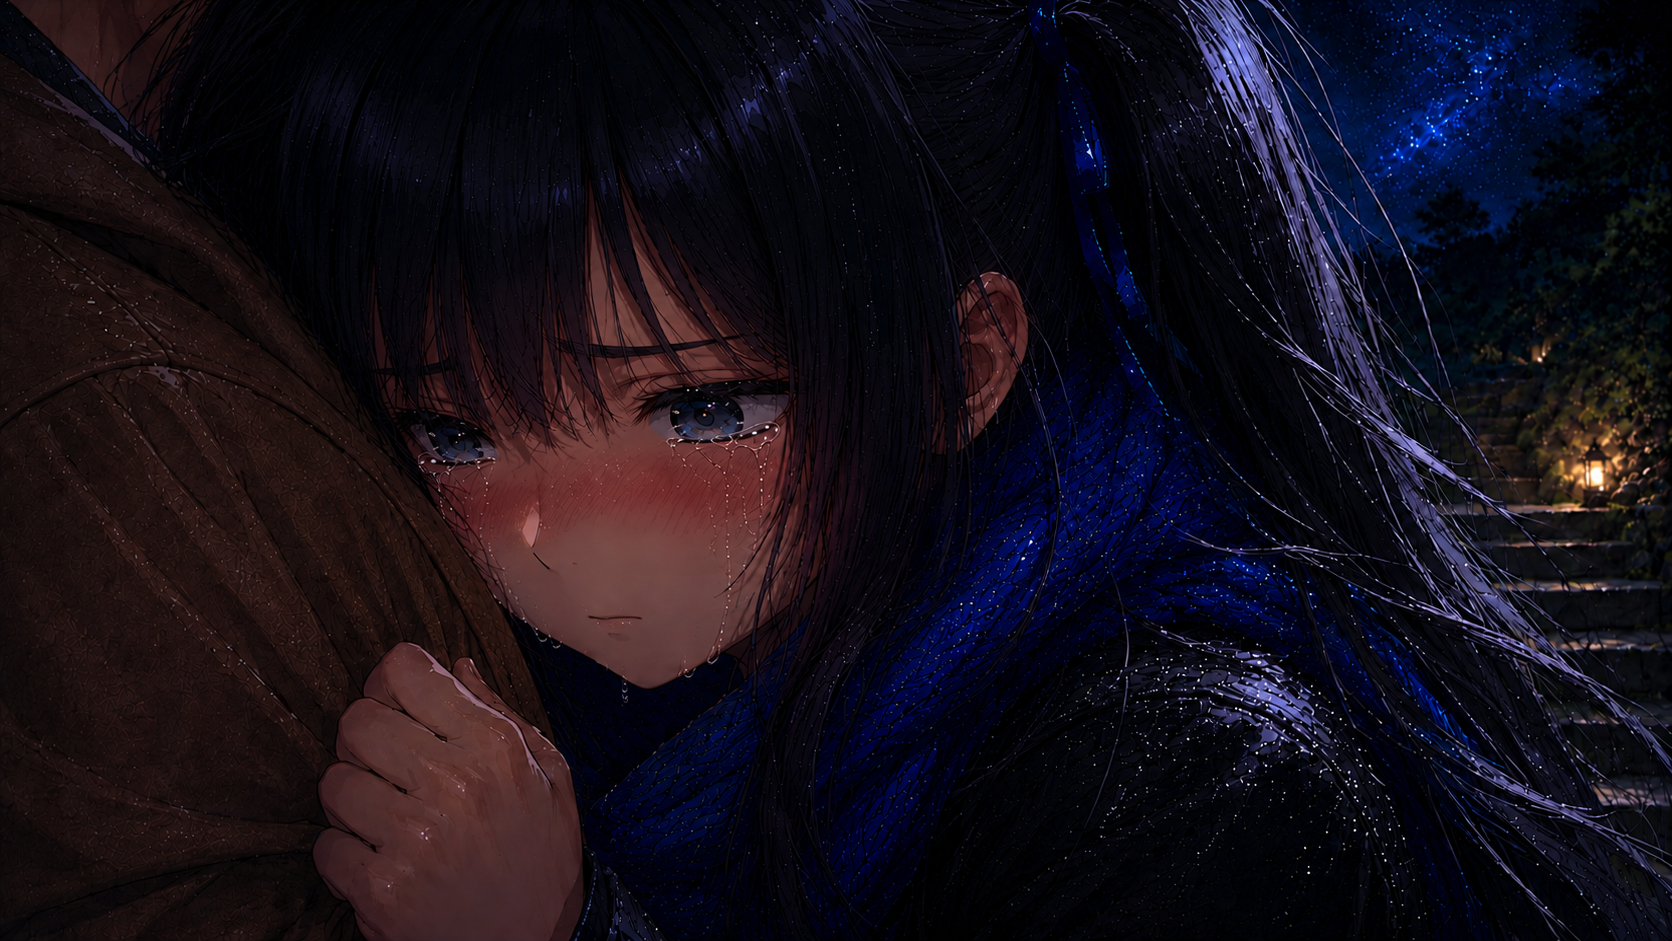
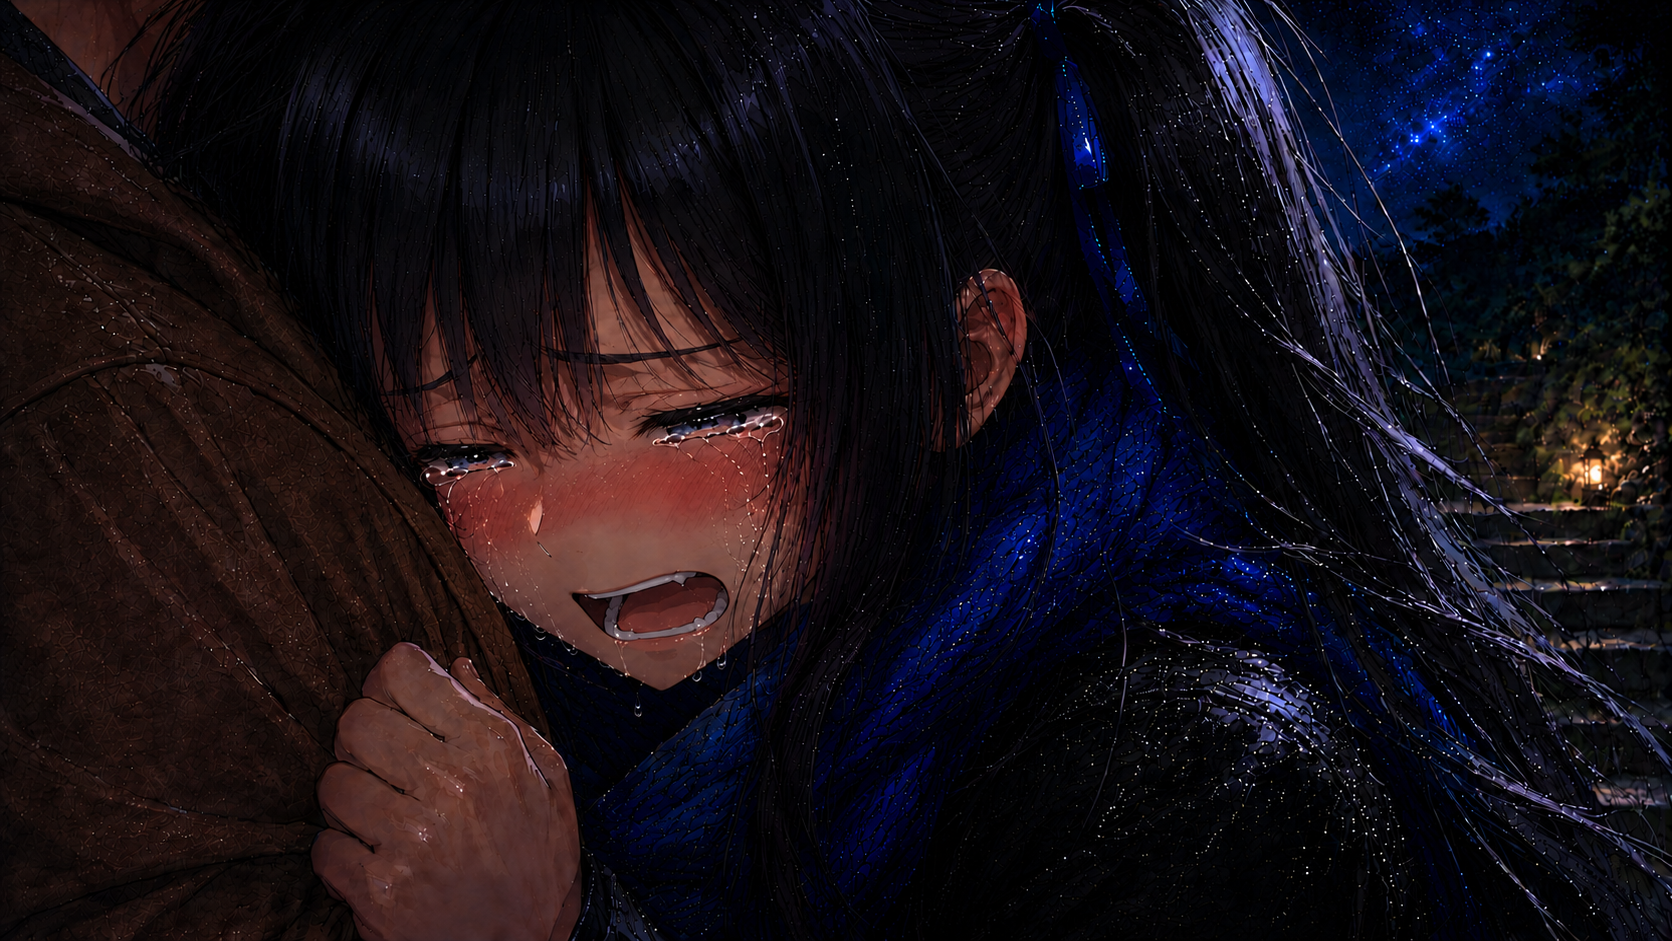
Add files via upload

diff --git a/index.html b/index.html
@@ -6,16 +6,16 @@
   <meta http-equiv="Cache-Control" content="no-store, no-cache, must-revalidate" />
   <meta http-equiv="Pragma" content="no-cache" />
   <meta http-equiv="Expires" content="0" />
-  <title>店長お疲れ様です v039_177</title>
-  <link rel="icon" href="favicon.ico?v=v039_177" sizes="any" />
-  <link rel="stylesheet" href="program/v039/core.css?v=v039_177" />
-  <link rel="stylesheet" href="program/v039/officeUiSurfaceFix.css?v=v039_177" />
-  <link rel="stylesheet" href="program/v039/bootSurfaceGuard.css?v=v039_177" />
-  <link rel="stylesheet" href="program/v039/battle.css?v=v039_177" />
-  <link rel="stylesheet" href="program/v039/rivalBattle.css?v=v039_177" />
-  <link rel="stylesheet" href="program/v039/eventBattle.css?v=v039_177" />
-  <link rel="stylesheet" href="program/v039/characterGrowth.css?v=v039_177" />
-  <link rel="stylesheet" href="program/v039/storyMenu.css?v=v039_177" />
+  <title>店長お疲れ様です v039_179</title>
+  <link rel="icon" href="favicon.ico?v=v039_179" sizes="any" />
+  <link rel="stylesheet" href="program/v039/core.css?v=v039_179" />
+  <link rel="stylesheet" href="program/v039/officeUiSurfaceFix.css?v=v039_179" />
+  <link rel="stylesheet" href="program/v039/bootSurfaceGuard.css?v=v039_179" />
+  <link rel="stylesheet" href="program/v039/battle.css?v=v039_179" />
+  <link rel="stylesheet" href="program/v039/rivalBattle.css?v=v039_179" />
+  <link rel="stylesheet" href="program/v039/eventBattle.css?v=v039_179" />
+  <link rel="stylesheet" href="program/v039/characterGrowth.css?v=v039_179" />
+  <link rel="stylesheet" href="program/v039/storyMenu.css?v=v039_179" />
 </head>
 <body>
   <main id="game-container" aria-label="店長お疲れ様です">
@@ -27,42 +27,43 @@
     window.__TENOTSU_DISABLE_LEGACY_OBSERVERS__ = true;
     window.__TENOTSU_DISABLE_RANDOMSHOW_VISUALS__ = true;
   </script>
-  <script src="program/v039/version.js?v=v039_177"></script>
-  <script src="program/v039/state.js?v=v039_177"></script>
-  <script src="program/v039/assets.js?v=v039_177"></script>
-  <script src="program/v039/layers.js?v=v039_177"></script>
-  <script src="program/v039/transitions.js?v=v039_177"></script>
-  <script src="program/v039/office.js?v=v039_177"></script>
-  <script src="program/v039/shop.js?v=v039_177"></script>
-  <script src="program/v039/storeStatus.js?v=v039_177"></script>
-  <script src="program/v039/tuning.js?v=v039_177"></script>
-  <script src="program/v039/members.js?v=v039_177"></script>
-  <script src="program/v039/stamina.js?v=v039_177"></script>
-  <script src="program/v039/battlePoint.js?v=v039_177"></script>
-  <script src="program/v039/eventBattlePoint.js?v=v039_177"></script>
-  <script src="program/v039/applianceAliens.js?v=v039_177"></script>
-  <script src="program/v039/sales.js?v=v039_177"></script>
-  <script src="program/v039/characterGrowth.js?v=v039_177"></script>
-  <script src="program/v039/battleResult.js?v=v039_177"></script>
-  <script src="program/v039/inputGuard.js?v=v039_177"></script>
-  <script src="program/v039/battle.js?v=v039_177"></script>
-  <script src="program/v039/rivalBattle.js?v=v039_177"></script>
-  <script src="program/v039/eventBattle.js?v=v039_177"></script>
-  <script src="scenario/v039/storyIndex.js?v=v039_177"></script>
-  <script src="scenario/v039/keyStoryConfig.js?v=v039_177"></script>
-  <script src="scenario/v039/affectionStoryPlan.js?v=v039_177"></script>
-  <script src="scenario/v039/townEncounterConfig.js?v=v039_177"></script>
-  <script src="scenario/v039/backgroundCatalog.js?v=v039_177"></script>
-  <script src="program/v039/eventData.js?v=v039_177"></script>
-  <script src="program/v039/eventState.js?v=v039_177"></script>
-  <script src="program/v039/town.js?v=v039_177"></script>
-  <script src="program/v039/storyPlayer.js?v=v039_177"></script>
-  <script src="program/v039/storyLayout.js?v=v039_177"></script>
-  <script src="program/v039/storyProgress.js?v=v039_177"></script>
-  <script src="program/v039/memberStorySlots.js?v=v039_177"></script>
-  <script src="program/v039/storyMenu.js?v=v039_177"></script>
-  <script src="program/v039/storyMenuLvTitlePatch.js?v=v039_177"></script>
-    <script src="program/v039/bootSurfaceGuard.js?v=v039_177"></script>
-  <script src="program/v039/app.js?v=v039_177"></script>
+  <script src="program/v039/version.js?v=v039_179"></script>
+  <script src="program/v039/state.js?v=v039_179"></script>
+  <script src="program/v039/assets.js?v=v039_179"></script>
+  <script src="program/v039/layers.js?v=v039_179"></script>
+  <script src="program/v039/transitions.js?v=v039_179"></script>
+  <script src="program/v039/office.js?v=v039_179"></script>
+  <script src="program/v039/shop.js?v=v039_179"></script>
+  <script src="program/v039/storeStatus.js?v=v039_179"></script>
+  <script src="program/v039/tuning.js?v=v039_179"></script>
+  <script src="program/v039/members.js?v=v039_179"></script>
+  <script src="program/v039/stamina.js?v=v039_179"></script>
+  <script src="program/v039/battlePoint.js?v=v039_179"></script>
+  <script src="program/v039/eventBattlePoint.js?v=v039_179"></script>
+  <script src="program/v039/applianceAliens.js?v=v039_179"></script>
+  <script src="program/v039/sales.js?v=v039_179"></script>
+  <script src="program/v039/characterGrowth.js?v=v039_179"></script>
+  <script src="program/v039/battleResult.js?v=v039_179"></script>
+  <script src="program/v039/inputGuard.js?v=v039_179"></script>
+  <script src="program/v039/battle.js?v=v039_179"></script>
+  <script src="program/v039/rivalBattle.js?v=v039_179"></script>
+  <script src="program/v039/eventBattle.js?v=v039_179"></script>
+  <script src="scenario/v039/storyIndex.js?v=v039_179"></script>
+  <script src="scenario/v039/keyStoryConfig.js?v=v039_179"></script>
+  <script src="scenario/v039/affectionStoryPlan.js?v=v039_179"></script>
+  <script src="scenario/v039/townEncounterConfig.js?v=v039_179"></script>
+  <script src="scenario/v039/backgroundCatalog.js?v=v039_179"></script>
+  <script src="program/v039/eventData.js?v=v039_179"></script>
+  <script src="program/v039/eventState.js?v=v039_179"></script>
+  <script src="program/v039/town.js?v=v039_179"></script>
+  <script src="program/v039/storyPlayer.js?v=v039_179"></script>
+  <script src="program/v039/storyBgPreloadTransition.js?v=v039_179"></script>
+  <script src="program/v039/storyLayout.js?v=v039_179"></script>
+  <script src="program/v039/storyProgress.js?v=v039_179"></script>
+  <script src="program/v039/memberStorySlots.js?v=v039_179"></script>
+  <script src="program/v039/storyMenu.js?v=v039_179"></script>
+  <script src="program/v039/storyMenuLvTitlePatch.js?v=v039_179"></script>
+    <script src="program/v039/bootSurfaceGuard.js?v=v039_179"></script>
+  <script src="program/v039/app.js?v=v039_179"></script>
 </body>
 </html>

diff --git a/program/v039/storyBgPreloadTransition.js b/program/v039/storyBgPreloadTransition.js
@@ -1,0 +1,92 @@
+/* v039_179 story bg preload transition */
+(function(){
+  "use strict";
+  const ns = window.TENOTSU_V039 = window.TENOTSU_V039 || {};
+
+  async function preloadAndDecode(src, timeout = 2600) {
+    if (!src) return { ok:false, src:null, img:null };
+    return await new Promise((resolve) => {
+      const img = new Image();
+      let done = false;
+      const finish = (ok) => {
+        if (done) return;
+        done = true;
+        resolve({ ok: !!ok, src, img });
+      };
+      const timer = setTimeout(() => finish(false), timeout);
+      img.onload = () => {
+        const afterDecode = () => { clearTimeout(timer); finish(true); };
+        if (typeof img.decode === "function") img.decode().then(afterDecode).catch(afterDecode);
+        else afterDecode();
+      };
+      img.onerror = () => { clearTimeout(timer); finish(false); };
+      img.src = src;
+    });
+  }
+
+  ns.prepareStoryBackgroundTransition = async function prepareStoryBackgroundTransition(src) {
+    if (!src) return null;
+    if (ns.__storyBgPrepared && ns.__storyBgPrepared.src === src) return ns.__storyBgPrepared;
+    const prepared = await preloadAndDecode(src);
+    ns.__storyBgPrepared = prepared;
+    return prepared;
+  };
+
+  const originalApplyStoryStep = ns.applyStoryStep;
+  const originalSetStoryBackgroundDirect = ns.setStoryBackgroundDirect;
+
+  ns.setStoryBackgroundDirect = async function setStoryBackgroundDirectPatched(bgPath, options = {}) {
+    if (!bgPath) return bgPath;
+    let prepared = (ns.__storyBgPrepared && ns.__storyBgPrepared.src === bgPath) ? ns.__storyBgPrepared : null;
+    if (!prepared) prepared = await ns.prepareStoryBackgroundTransition(bgPath);
+
+    const layers = ns.layers || (typeof ns.ensureLayers === "function" ? ns.ensureLayers() : null);
+    if (!layers || !layers.bg || !layers.bgImg || !prepared || !prepared.ok) {
+      if (typeof originalSetStoryBackgroundDirect === "function") return originalSetStoryBackgroundDirect.call(ns, bgPath, options);
+      if (typeof ns.setBackgroundReady === "function") return ns.setBackgroundReady(bgPath);
+      if (typeof ns.setBackground === "function") return ns.setBackground(bgPath);
+      return bgPath;
+    }
+
+    if (typeof ns.disableUnifiedStoryBackgroundLayer === "function") ns.disableUnifiedStoryBackgroundLayer();
+    if (typeof ns.hideEventCgSurface === "function") ns.hideEventCgSurface();
+    if (typeof ns.suppressStoryFadeLayer === "function") ns.suppressStoryFadeLayer();
+
+    layers.bg.hidden = false;
+    layers.bg.style.setProperty("display", "block", "important");
+    layers.bg.style.setProperty("visibility", "visible", "important");
+    layers.bg.style.setProperty("opacity", "1", "important");
+    layers.bg.style.setProperty("z-index", "100", "important");
+    layers.bg.style.setProperty("background-image", `url("${bgPath}")`, "important");
+    layers.bg.style.setProperty("background-size", "cover", "important");
+    layers.bg.style.setProperty("background-position", "center", "important");
+    layers.bg.style.setProperty("background-repeat", "no-repeat", "important");
+
+    layers.bgImg.onerror = null;
+    layers.bgImg.removeAttribute("hidden");
+    layers.bgImg.style.setProperty("display", "block", "important");
+    layers.bgImg.style.setProperty("visibility", "visible", "important");
+    layers.bgImg.style.setProperty("opacity", "1", "important");
+    layers.bgImg.style.setProperty("width", "100%", "important");
+    layers.bgImg.style.setProperty("height", "100%", "important");
+    layers.bgImg.style.setProperty("object-fit", "cover", "important");
+    layers.bgImg.src = bgPath;
+
+    ns.storyCurrentBackground = bgPath;
+    if (ns.story) ns.story.lastBg = bgPath;
+    ns.__storyBgPrepared = null;
+    if (typeof ns.suppressStoryFadeLayer === "function") ns.suppressStoryFadeLayer();
+    return bgPath;
+  };
+
+  if (typeof originalApplyStoryStep === "function") {
+    ns.applyStoryStep = async function applyStoryStepPatched(step, options = {}) {
+      try {
+        const forceBg = !!(step && (step.forceBackgroundReplace || step.bgMode === "forceReplace"));
+        const bgChanged = !!(step && step.bg && (forceBg || step.bg !== (ns.story && ns.story.lastBg) || step.bg !== ns.storyCurrentBackground));
+        if (bgChanged) await ns.prepareStoryBackgroundTransition(step.bg);
+      } catch (_) {}
+      return originalApplyStoryStep.call(ns, step, options);
+    };
+  }
+})();

diff --git a/program/v039/version.js b/program/v039/version.js
@@ -1,11 +1,13 @@
-/* v039_177 version */
+/* v039_179 version */
 (function(){
   "use strict";
-  window.TENOTSU_VERSION = "v039_177";
-  window.TENOTSU_VERSION_LABEL = "v039_177 夜空60メインイベントCG差し替えパッチ";
+  window.TENOTSU_VERSION = "v039_179";
+  window.TENOTSU_BUILD_VERSION = "v039_179";
+  window.TENOTSU_VERSION_LABEL = "v039_179 夜空60CG差し替え＋背景プリロード遷移マージパッチ";
+  window.TENOTSU_BUILD_LABEL = "v039_179 夜空60CG差し替え＋背景プリロード遷移マージパッチ";
   window.TENOTSU_VERSION_NOTES = [
-    "夜空『夜空のままで』のイベントCG進行を5枚構成へ差し替え",
-    "ステップ133・157・182・217・262で段階的にCGを切り替える",
-    "v039_176までの表示補正・UI修正を維持"
+    "夜空『夜空のままで』ステップ182の3枚目イベントCGを差し替え",
+    "v039_178の背景プリロード→切替→テキスト進行補正をマージ",
+    "v039_177までの夜空60イベントCG進行を維持"
   ];
 })();

diff --git a/program/v039/state.js b/program/v039/state.js
@@ -2,8 +2,8 @@
   "use strict";
   window.TENOTSU_V039 = window.TENOTSU_V039 || {};
   const ns = window.TENOTSU_V039;
-  ns.VERSION = window.TENOTSU_BUILD_VERSION || ns.VERSION || "v039_177";
-  ns.BUILD_LABEL = window.TENOTSU_BUILD_LABEL || ns.BUILD_LABEL || "v039_177";
+  ns.VERSION = window.TENOTSU_BUILD_VERSION || ns.VERSION || "v039_179";
+  ns.BUILD_LABEL = window.TENOTSU_BUILD_LABEL || ns.BUILD_LABEL || "v039_179";
   ns.state = ns.state || { mode:"boot", officeSelection:[], frontCharacter:null, bootedAt:Date.now() };
   ns.state.mode = ns.state.mode || "boot";
   ns.setMode = function(mode){

diff --git a/README_DIFF.md b/README_DIFF.md
@@ -1,26 +1,20 @@
-# 差分パッチ名 / 登録名 / 更新対象一覧
+差分パッチ名 / 登録名 / 更新対象一覧
 
-- 差分パッチ名: ten_otsu_v039_177_yozora60_cg_sequence_patch.zip
-- 登録名: v039_177 夜空60メインイベントCG差し替えパッチ
+- 差分パッチ名: ten_otsu_v039_179_yozora60_step182_cg_bgpreload_merge_patch.zip
+- 登録名: v039_179 夜空60CG差し替え＋背景プリロード遷移マージパッチ
 - 更新対象一覧:
-  - scenario/v039/events/yozora_affection_60_00_main.json
-  - images/assets/cg/cg_yozora_main60_hug_01.png
-  - images/assets/cg/cg_yozora_main60_hug_02.png
-  - images/assets/cg/cg_yozora_main60_hug_03.png
-  - images/assets/cg/cg_yozora_main60_hug_04.png
-  - images/assets/cg/cg_yozora_main60_hug_05.png
   - index.html
   - VERSION.txt
   - program/v039/version.js
   - program/v039/state.js
-  - program/v039/office.js
-  - program/v039/officeUiSurfaceFix.css
+  - program/v039/storyBgPreloadTransition.js
+  - scenario/v039/events/yozora_affection_60_00_main.json
+  - images/assets/cg/cg_yozora_main60_hug_03.png
 
-## 反映内容
-- ストーリー「夜空のままで」のイベントCGを段階差し替え
-- ステップ133: 1枚目CG
-- ステップ157: 2枚目CG
-- ステップ182: 3枚目CG
-- ステップ217: 4枚目CG
-- ステップ262: 5枚目CG
-- ステップ299でイベントCG終了
+概要:
+- 「夜空のままで」ステップ182の3枚目イベントCGを差し替え。
+- v039_178で案内した「背景変更時に次背景を先読みしてから差し替え、テキスト進行前に反映する」補正を同梱。
+- v039_177までの夜空60イベントCG差し替え進行を維持。
+
+適用順:
+- v039_177 適用後、またはそれ以降の環境へ上書き。
